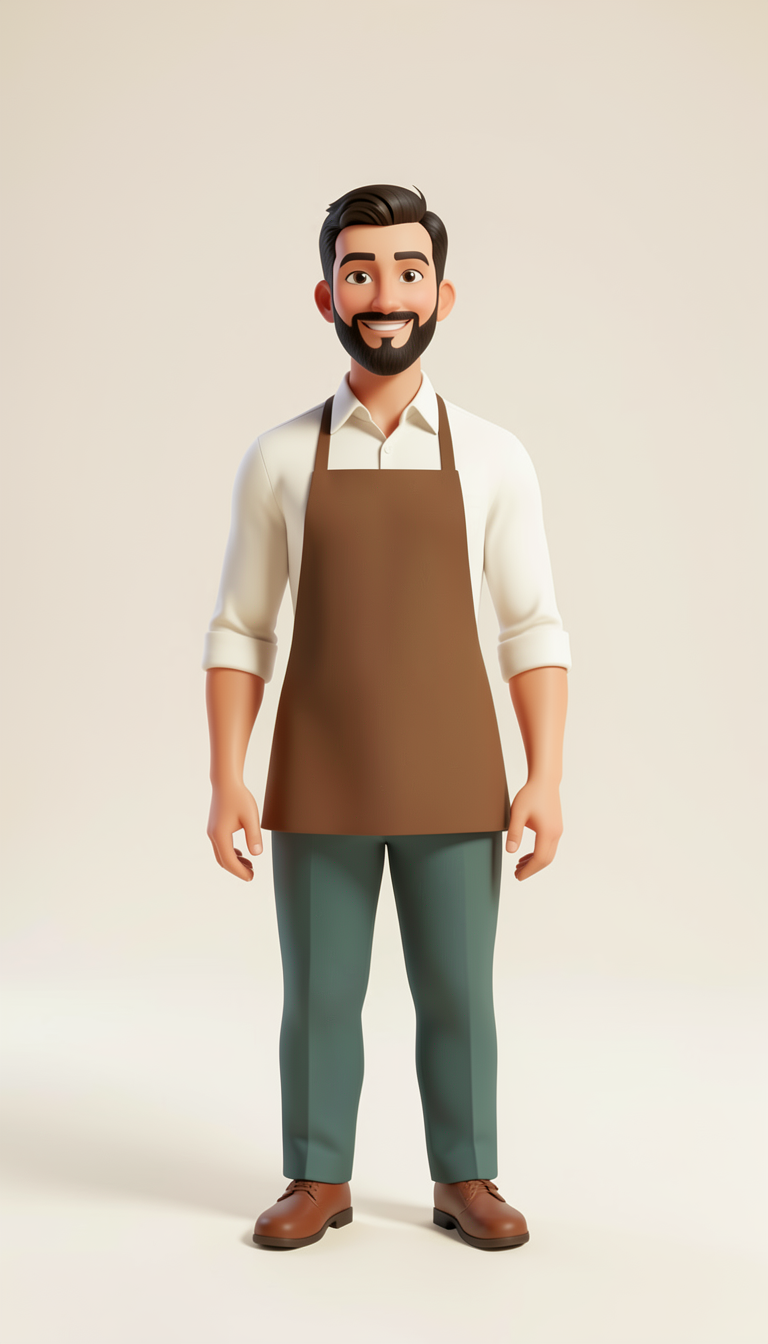
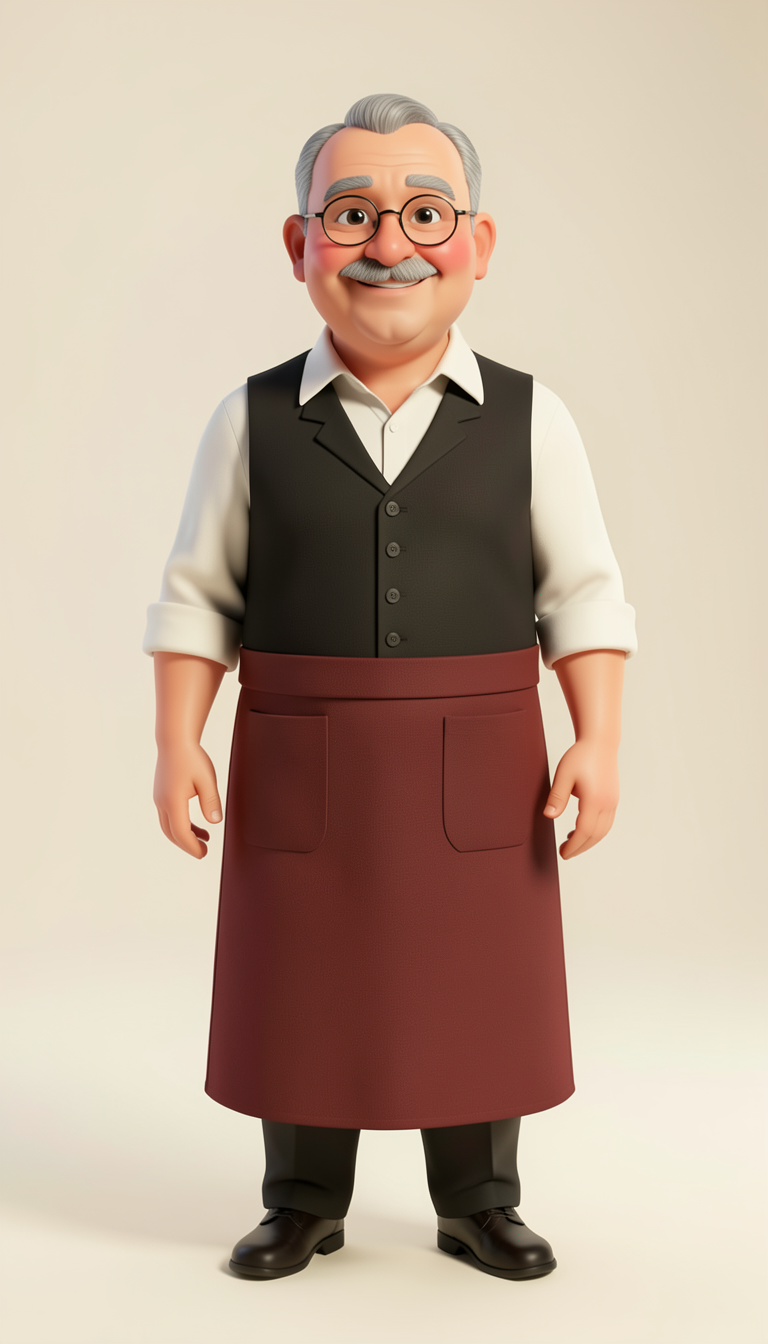
Smooth library loops: 3-s clips via motion-compensated slow motion, eased 6-s pendulum loops (no freezes), tail pendulum after entrances; new 3D waiter; x01/x02 v2 with openers

diff --git a/tools/animate/make_loop.py b/tools/animate/make_loop.py
@@ -1,28 +1,34 @@
 #!/usr/bin/env python3
 """Turn a raw Wan clip into library units (1080×1920, 30 fps) and register them in library/index.json.
 
-    python3 tools/animate/make_loop.py RAW.mp4 openers/sami-peek-door --character sami --action "peeks out, waves" \
-        [--start 0 --end 2.0] [--peak 0.15] [--hold 1.0] [--green]
+    python3 tools/animate/make_loop.py RAW.mp4 talk/sami-talk-2 --character sami --action "calm talk" \
+        [--start 0 --end 2.0] [--speed 0.667] [--loop 6] [--green]
 
 Writes, in library/<kind>/:
-    <name>.mp4         the clean part, played once (an entrance: ends in the action's end pose)
-    <name>-loop.mp4    forward → short pause at the turn → backward to the START pose → start pose held 1 s.
-                       It begins and ends on the same frame, so it repeats with no visible jump, and the held start
-                       pose makes the repetition feel like a natural pause (owner's idea, 2026-10-01).
-    <name>_sheet.png   6 frames of the clean part (for the quality check)
-Frames are repeated (not blended) for 24 → 30 fps: blending ghosted a waving hand.
---green marks a green-screen unit (talking characters for tools/animate/composite.py).
+    <name>.mp4        the clean part, played once (an entrance). --speed 0.667 stretches a 2-s Wan clip (49 frames)
+                      to 3 s; motion-compensated in-between frames keep it smooth (no extra GPU time).
+    <name>-loop.mp4   a smooth "pendulum" loop: start pose → end pose → start pose, slowing down gently into each
+                      turn and speeding up out of it (cosine easing) — no frozen frames, no jump. It starts and
+                      ends on the same frame, so it repeats seamlessly. Default length = 2 × the clean part.
+    <name>-tail.mp4   end pose → a little back → end pose (eased), over the last --tail s: assemble.py plays it after
+                      the entrance so the character keeps moving instead of freezing (e.g. the wave keeps waving)
+    <name>_sheet.png  6 frames of the clean part (for the quality check)
+(Owner, 2026-10-01: hard freezes at the turns and at the end made the loop feel mechanical.)
 """
 import argparse
 import datetime as dt
 import json
+import math
 import pathlib
+import shutil
 import subprocess
+import tempfile
 
 ROOT = pathlib.Path(__file__).resolve().parent.parent.parent
 LIB = ROOT / "library"
 UP = "scale=1080:1920:force_original_aspect_ratio=increase:flags=lanczos,crop=1080:1920,setsar=1"
 ENC = ["-c:v", "libx264", "-crf", "18", "-preset", "slow", "-pix_fmt", "yuv420p", "-movflags", "+faststart", "-an"]
+DENSE = 60   # in-between frames per second used for the eased loop
 
 
 def ff(*args):
@@ -37,37 +43,69 @@ def duration(p):
 def main():
     ap = argparse.ArgumentParser()
     ap.add_argument("raw", type=pathlib.Path)
-    ap.add_argument("name", help="kind/name, e.g. openers/sami-peek-door or talk/sami-talk-1")
+    ap.add_argument("name", help="kind/name, e.g. openers/sami-peek-door or talk/sami-talk-2")
     ap.add_argument("--character", required=True)
     ap.add_argument("--action", required=True)
     ap.add_argument("--start", type=float, default=0.0)
     ap.add_argument("--end", type=float, default=99.0)
-    ap.add_argument("--peak", type=float, default=0.15, help="pause at the turnaround (s)")
-    ap.add_argument("--hold", type=float, default=1.0, help="hold of the start pose at the end (s)")
+    ap.add_argument("--speed", type=float, default=1.0, help="0.667 = a 2-s clip becomes 3 s (smooth slow motion)")
+    ap.add_argument("--loop", type=float, default=0.0, help="loop length in s (default: 2 × the clean part)")
+    ap.add_argument("--tail", type=float, default=1.0,
+                    help="also make <name>-tail.mp4: a pendulum over the last N s (keeps an entrance alive after it ends)")
     ap.add_argument("--green", action="store_true")
     a = ap.parse_args()
 
     once = LIB / f"{a.name}.mp4"
     loop = LIB / f"{a.name}-loop.mp4"
     once.parent.mkdir(parents=True, exist_ok=True)
-    ff("-i", str(a.raw), "-vf", f"trim=start={a.start}:end={a.end},setpts=PTS-STARTPTS,{UP},fps=30", *ENC, str(once))
-    ff("-i", str(once), "-filter_complex",
-       f"[0]split[f][b];[f]tpad=stop_mode=clone:stop_duration={a.peak}[f2];"
-       f"[b]reverse,trim=start_frame=1,setpts=PTS-STARTPTS,tpad=stop_mode=clone:stop_duration={a.hold}[r];"
-       f"[f2][r]concat=n=2:v=1[v]", "-map", "[v]", *ENC, str(loop))
-    n = int(subprocess.run(["ffprobe", "-v", "error", "-count_frames", "-select_streams", "v:0", "-show_entries",
-                            "stream=nb_read_frames", "-of", "csv=p=0", str(once)], capture_output=True, text=True).stdout)
-    sel = "+".join(f"eq(n\\,{k * (n - 1) // 5})" for k in range(6))
+    with tempfile.TemporaryDirectory() as tmp:
+        tmp = pathlib.Path(tmp)
+        # 1. clean part at the native size, slowed if asked, as a dense smooth 60-fps master
+        dense = tmp / "dense.mp4"
+        ff("-i", str(a.raw), "-vf",
+           f"trim=start={a.start}:end={a.end},setpts=(PTS-STARTPTS)/{a.speed},"
+           f"minterpolate=fps={DENSE}:mi_mode=mci:mc_mode=aobmc:me_mode=bidir:vsbmc=1",
+           "-c:v", "libx264", "-crf", "12", "-pix_fmt", "yuv420p", str(dense))
+        ff("-i", str(dense), "-vf", f"fps=30,{UP}", *ENC, str(once))
+        # 2. eased pendulum loop picked from the dense frames
+        frames = tmp / "f"
+        frames.mkdir()
+        ff("-i", str(dense), str(frames / "%05d.png"))
+        files = sorted(frames.glob("*.png"))
+        m = len(files)
+        length = a.loop or 2 * duration(once)
+        n = round(length * 30)
+        lst = []
+        for k in range(n):
+            pos = (1 - math.cos(2 * math.pi * k / n)) / 2          # 0 → 1 → 0, zero speed at both turns
+            lst.append(f"file '{files[round(pos * (m - 1))]}'\nduration {1 / 30:.6f}")
+        (tmp / "list.txt").write_text("\n".join(lst) + "\n")
+        ff("-f", "concat", "-safe", "0", "-i", str(tmp / "list.txt"), "-vf", f"fps=30,{UP}", "-frames:v", str(n),
+           *ENC, str(loop))
+        if a.tail:   # end pose → a little back → end pose, eased: played after the entrance instead of a freeze
+            t0 = max(0, m - 1 - round(a.tail * DENSE))
+            nt = round(2 * a.tail * 30)
+            lst = []
+            for k in range(nt):
+                pos = (1 - math.cos(2 * math.pi * k / nt)) / 2
+                lst.append(f"file '{files[round(m - 1 - pos * (m - 1 - t0))]}'\nduration {1 / 30:.6f}")
+            (tmp / "tail.txt").write_text("\n".join(lst) + "\n")
+            ff("-f", "concat", "-safe", "0", "-i", str(tmp / "tail.txt"), "-vf", f"fps=30,{UP}", "-frames:v", str(nt),
+               *ENC, str(LIB / f"{a.name}-tail.mp4"))
+    cnt = int(subprocess.run(["ffprobe", "-v", "error", "-count_frames", "-select_streams", "v:0", "-show_entries",
+                              "stream=nb_read_frames", "-of", "csv=p=0", str(once)], capture_output=True, text=True).stdout)
+    sel = "+".join(f"eq(n\\,{k * (cnt - 1) // 5})" for k in range(6))
     ff("-i", str(once), "-vf", f"select='{sel}',scale=360:-2,tile=6x1:padding=4:color=white", "-fps_mode", "vfr",
        "-frames:v", "1", str(LIB / f"{a.name}_sheet.png"))
 
     idx_file = LIB / "index.json"
     idx = json.loads(idx_file.read_text()) if idx_file.exists() else []
+    old = next((u for u in idx if u["name"] == a.name), {})
     idx = [u for u in idx if u["name"] != a.name]
     idx.append({"name": a.name, "kind": a.name.split("/")[0], "character": a.character, "action": a.action,
                 "green": a.green, "once_s": round(duration(once), 2), "loop_s": round(duration(loop), 2),
-                "source": str(a.raw.relative_to(ROOT)) if a.raw.is_relative_to(ROOT) else str(a.raw),
-                "created": str(dt.date.today()), "used_in": []})
+                "speed": a.speed, "source": str(a.raw.relative_to(ROOT)) if a.raw.is_relative_to(ROOT) else str(a.raw),
+                "created": str(dt.date.today()), "used_in": old.get("used_in", [])})
     idx_file.write_text(json.dumps(sorted(idx, key=lambda u: u["name"]), indent=1, ensure_ascii=False) + "\n")
     print(f"{once.relative_to(ROOT)} {duration(once):.2f}s · {loop.relative_to(ROOT)} {duration(loop):.2f}s")
 

diff --git a/tools/assemble.py b/tools/assemble.py
@@ -199,8 +199,17 @@ def main():
             image = shifted(image, o["shift"], seg_dir / f"s{i:02d}-shifted.png")
         overlays = ["-i", str(badge)]
         fit = f"scale={W}:{H}:force_original_aspect_ratio=increase,crop={W}:{H},setsar=1,fps={FPS}"
+        tail = LIBRARY / f"{o['clip']}-tail.mp4" if "clip" in o else None
+        if clip is not None and o.get("clip_mode") != "loop" and tail.exists():
+            # entrance once, then its eased tail pendulum repeated (the character keeps moving — no frozen frame)
+            joined = seg_dir / f"s{i:02d}-clip.mp4"
+            reps = max(1, int(frames / FPS / 1.9) + 1)
+            run(["ffmpeg", "-v", "error", "-y", "-i", str(clip), "-stream_loop", str(reps), "-i", str(tail),
+                 "-filter_complex", "[0:v][1:v]concat=n=2:v=1[v]", "-map", "[v]", "-c:v", "libx264", "-crf", "16",
+                 "-pix_fmt", "yuv420p", str(joined)])
+            clip = joined
         if clip is not None:
-            # library clip (3D opener / loop): "once" plays it and holds the last frame; "loop" repeats it
+            # library clip (3D opener / loop): "once" plays it (then its tail, else holds the last frame); "loop" repeats it
             src = (["-stream_loop", "-1"] if o.get("clip_mode") == "loop" else []) + ["-i", str(clip)]
             chain = f"[0:v]{fit},tpad=stop_mode=clone:stop_duration=600[bg];[bg][1:v]overlay=0:40[b1]"
         elif o.get("motion") in ("still", "fade"):

diff --git a/.claude/skills/animation-library/SKILL.md b/.claude/skills/animation-library/SKILL.md
@@ -29,7 +29,7 @@ PID (`pgrep -f "main.py --listen"`), stop it by that PID at the end.
 | Folder | Unit | Used for |
 |---|---|---|
 | `openers/` | `<name>.mp4` (2-s entrance, plays once) + `<name>-loop.mp4` (5.2 s) | scene 1 of every Short |
-| `talk/` | green-screen character talking (no lip-sync), loop | narrator moments, intros, Part videos — on any background |
+| `talk/` | green-screen character talking calmly (no lip-sync), 6-s loop — prefer the `*-calm` units | narrator moments, intros, Part videos — on any background |
 | `backgrounds/` | 3D stills (and later short animated ones) | behind talk units, still scenes |
 | `work/` | keyframes, raw clips, takes | not used directly |
 
@@ -49,9 +49,14 @@ PID (`pgrep -f "main.py --listen"`), stop it by that PID at the end.
    Avoid revealing a hidden mouth/face (the model invents it: painted moustaches).
 3. **Check every frame** (6-frame sheet + close-ups of face and hands). Reject: face drift, eyes changing, extra
    fingers, melting hands, sudden zoom, colour blobs. Ask: "would a viewer find this odd?" — if yes, reject.
-4. **Build** — `python3 tools/animate/make_loop.py raw.mp4 openers/<name> --character sami --action "…" [--start --end] [--green]`
-   → once + loop (forward → 0.15 s pause → back to the start pose → start pose held 1 s; begins and ends on the same
-   frame, so the repeat is invisible) + sheet, registered in `index.json`.
+4. **Build** — `python3 tools/animate/make_loop.py raw.mp4 openers/<name> --character sami --action "…" --speed 0.667 [--tail 0.8] [--green]`
+   → `<name>.mp4` (the 2-s clip stretched to **3 s** with motion-compensated in-between frames — no extra GPU time),
+   `<name>-loop.mp4` (**6-s pendulum**: start → end → start, slowing gently into each turn — no frozen frames; first
+   and last frame identical, so it repeats seamlessly), `<name>-tail.mp4` (end pose ↔ a little back, eased: plays
+   after an entrance so the character keeps moving instead of freezing), sheet, `index.json` entry.
+   Owner's rules (2026-10-01): **no freezes**; **calm, neutral gestures** for anything that loops (big arm swings
+   reveal the loop); entrances may be lively. Fast motion (a quick arm raise) shows 2–3 frames of smear after the
+   in-betweening — reads as motion blur, but check it.
 5. **Green-screen units** — `python3 tools/animate/composite.py library/talk/<name>-loop.mp4 <background> out.mp4 --seconds N [--zoom]`
    (green-dominance key: only clearly bright-green pixels go transparent, so Sami's **olive** hoodie survives — a
    chroma-distance key made it see-through; green fringe pulled down). Look at hair edges and clothes; lower
@@ -61,7 +66,8 @@ PID (`pgrep -f "main.py --listen"`), stop it by that PID at the end.
 
 ## Using units in a video (assemble.py, via images/<video>/prompts.json)
 
-- `{"s": 1, "clip": "openers/sami-peek-door"}` — plays once, then holds the last frame for the rest of the scene.
+- `{"s": 1, "clip": "openers/sami-peek-door"}` — plays the entrance once, then its tail pendulum for the rest of the
+  scene (the wave keeps waving).
 - `{"s": 4, "clip": "talk/…-on-cafe", "clip_mode": "loop"}` — repeats a loop for the whole scene.
 - `{"s": 9, "motion": "still"}` / `"fade"` — a still picture with no zoom / with a slow fade in and out (photo-only
   scenes). Default is the slow zoom.
@@ -72,3 +78,10 @@ PID (`pgrep -f "main.py --listen"`), stop it by that PID at the end.
 
 Make 3–5 new openers (different entrances per character: peek, look-up, turn-around, walk-in, wave from a balcony …),
 1–2 talk units, a few backgrounds. ~15 min laptop time per unit (2 seeds + review). Update docs/14 with what worked.
+
+## Characters and variety
+
+3D references: `assets/characters/{sami,lina,waiter}-3d.png` (the 3D waiter is deliberately different from Sami:
+late fifties, grey hair, glasses, moustache, waistcoat, red apron). **Future:** give Sami and Lina several outfits and
+styles (seasonal clothes, formal/casual) as extra keyframe sets, so talk units and openers don't look identical across
+months — same face, different clothes.
